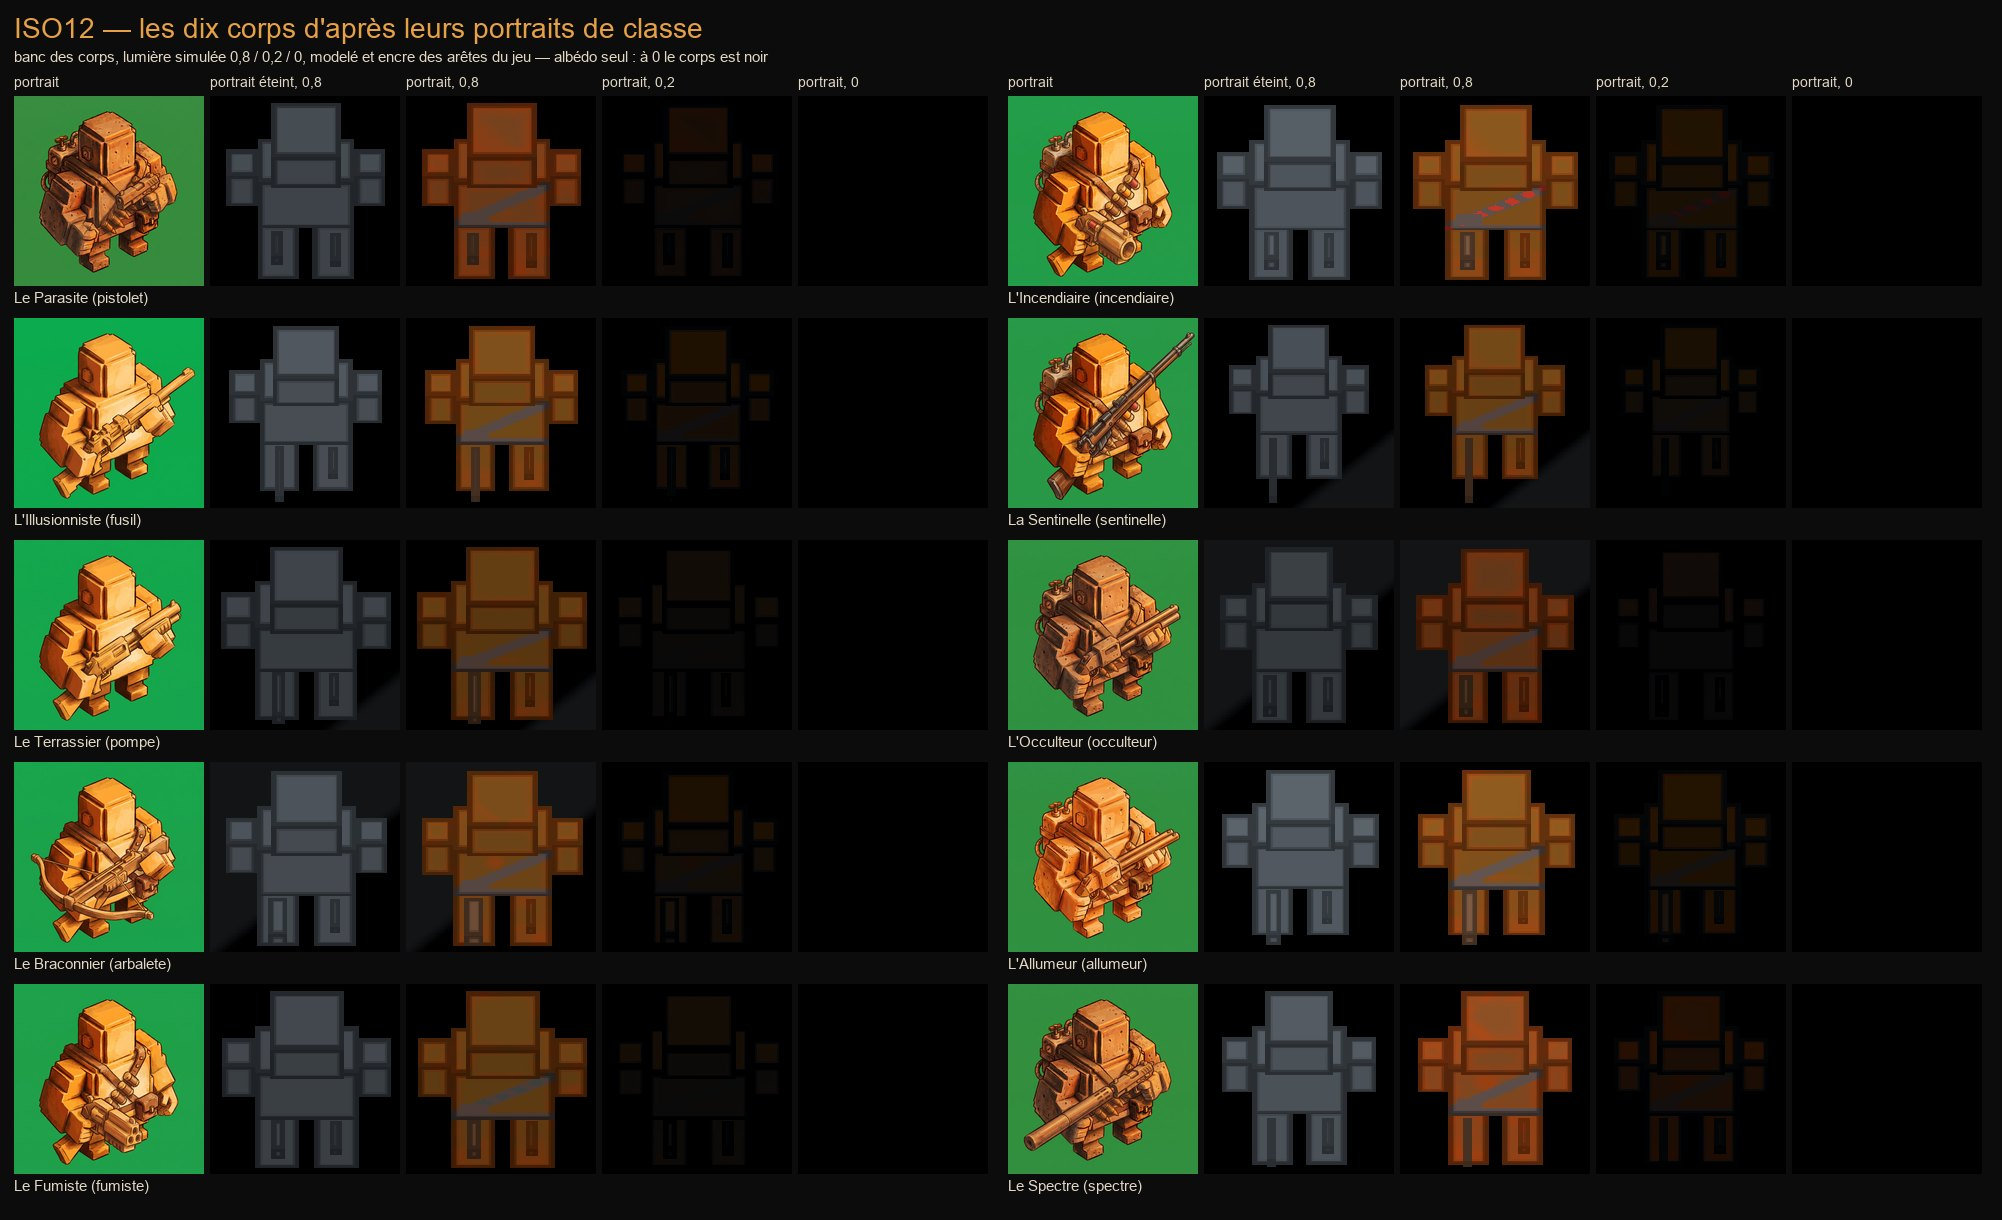
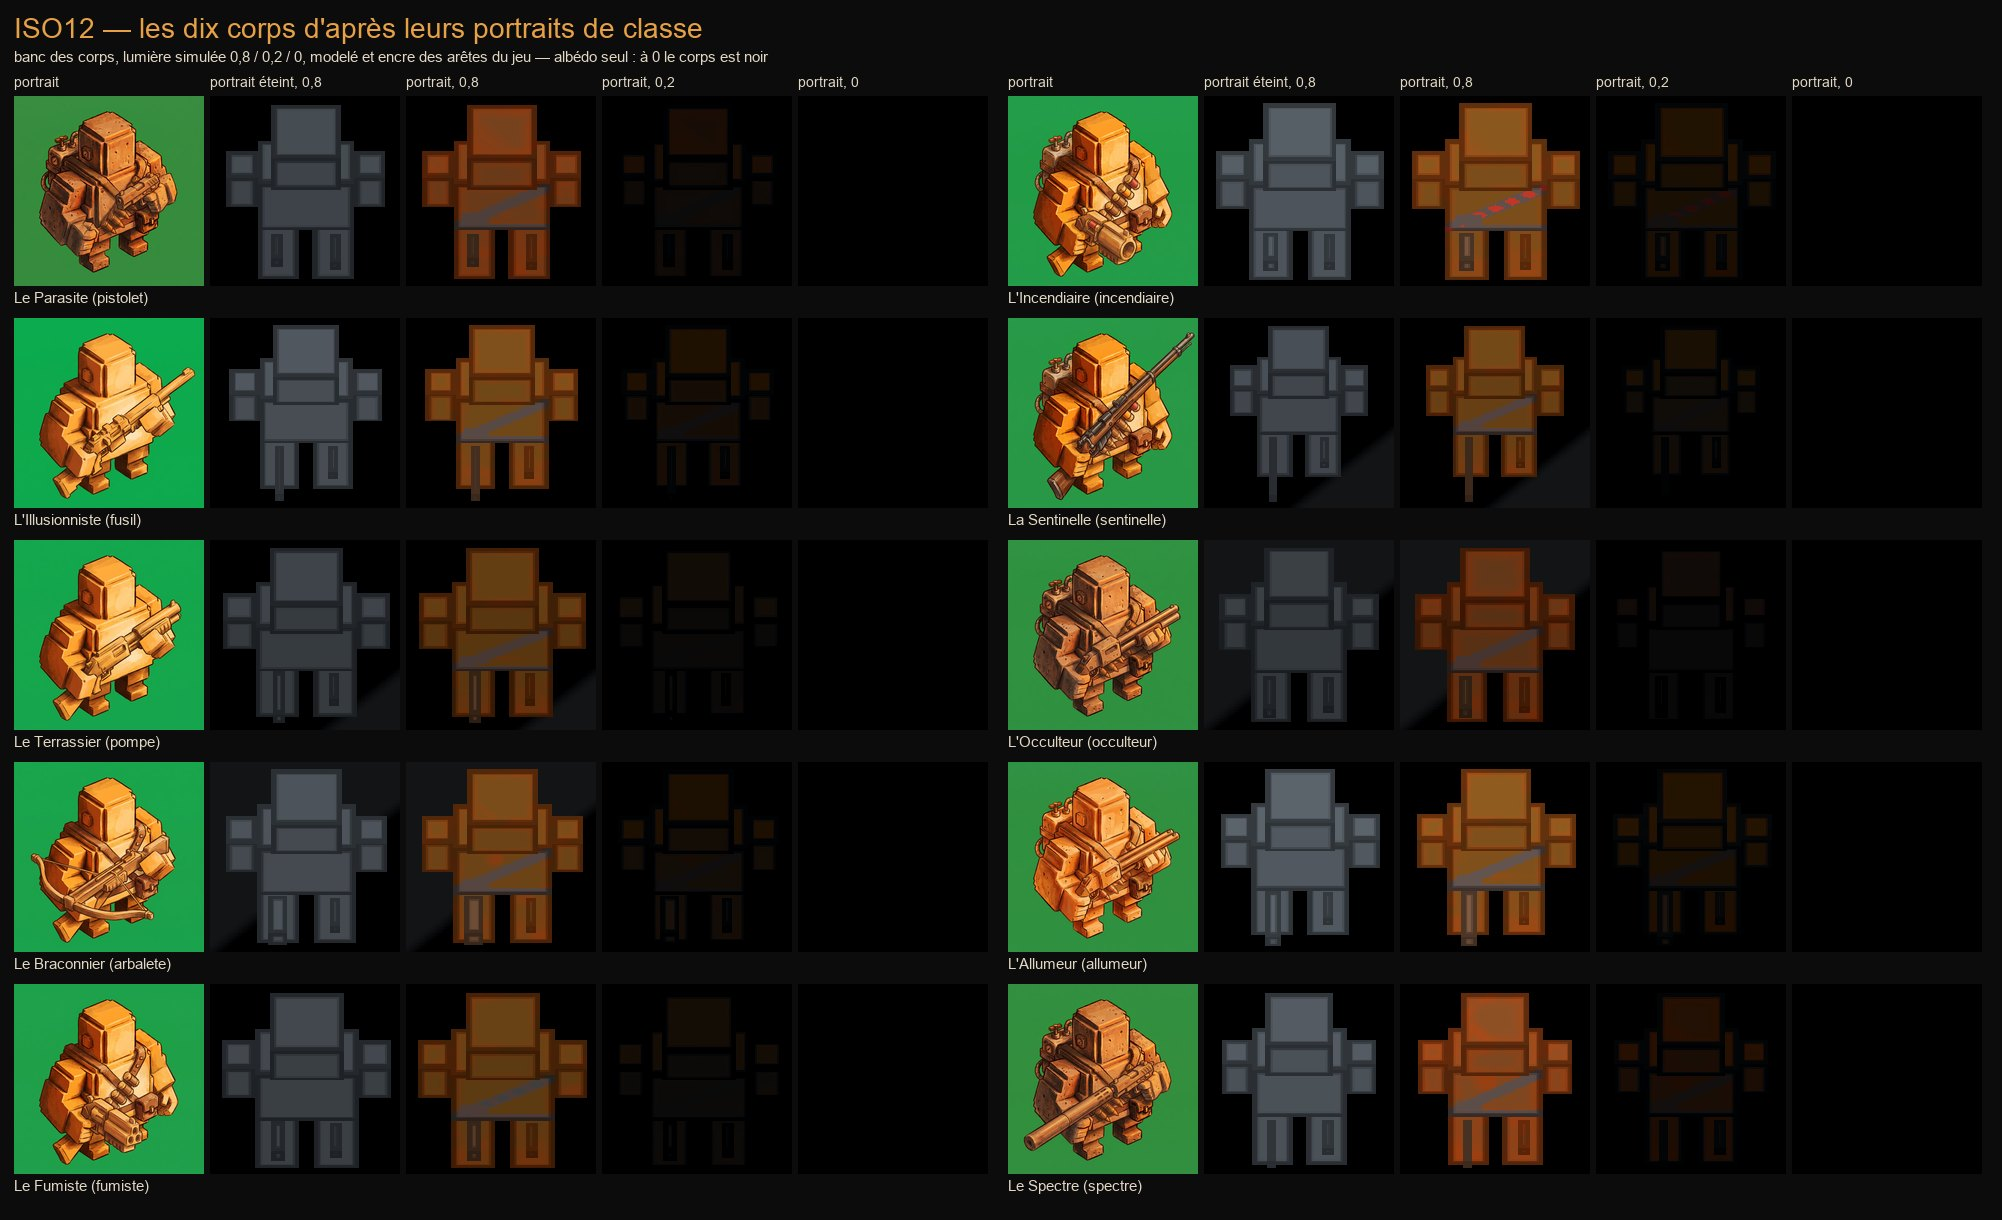
ISO12 — les corps peints : critère 1 tenu au temps figé, zéro pixel noir allumé
Banc au temps figé accordé par la session cloud (07:33), critère posé
d'avance : d'abord le contrôle gris contre gris à 0 dans les deux sens, puis
le peint à 0. Le banc des corps fige son horloge pendant les deux prises
(aucun shader des corps ne lit TIME) ; sans cela, les corps respiraient
d'une capture à l'autre et 40 000 pixels différaient même au contrôle.

Mesuré à 08:03, lumières 0,8, 0,2, 0,15, 0,1 et 0,06 : contrôle à palette
grise, 0 et 0 ; peint, 0 pixel noir au gris qui sort non noir et 0 dans
l'autre sens, peint sur gris 0,978 à 1,028. Les trois critères de l'ordre
145 sont tenus. Lot complet vert (435 s, 08:11).

Changed region(s): [[0.2478, 0.7475, 0.2787, 0.7787], [0.2478, 0.5607, 0.2787, 0.5918], [0.2478, 0.3426, 0.2787, 0.3738]]

diff --git a/docs/ROADMAP.md b/docs/ROADMAP.md
@@ -26192,12 +26192,13 @@ jusqu'à 24/255. L'encre et le modelé restent les seules variations de clarté,
 **L'équité.** Mesurée au banc des corps, les dix corps pris peints puis le portrait éteint sur les MÊMES matériaux, dans la
 même partie (2026-09-23 06:43, clarté moyenne des pixels du corps, peint sur gris) : **0,991 à 1,001 à 0,8 ; 0,978 à 1,005
 à 0,2 ; 0,990 à 1,024 à 0,15 ; 0,997 à 1,017 à 0,1** — les dix classes dans les 5 % à toutes les lumières.
-- **Critère 1 : des pixels noirs au gris qui ne le sont plus peints — tombés au niveau du bruit du banc.** 159 à 0,2, 207 à
-  0,15, 205 à 0,1, 10 à 0,06, 0 à 0 (125 à 0,8), contre 8 894, 15 249, 8 287 et 9 622 dans l'espace encodé ; et dans l'autre
-  sens, 186, 411, 163 : les deux sens s'équilibrent. **Le contrôle** — la palette entièrement grise, où la teinte rend
-  exactement le gris — en compte autant entre ses deux captures (105 à 0,2, 139 à 0,1, et 1 791 dans l'autre sens) : les
-  corps respirent d'une capture à l'autre (40 000 pixels y diffèrent). Le zéro exact demande un banc au temps figé entre
-  les deux prises (proposé).
+- **Critère 1 TENU : aucun pixel noir au gris n'est non noir peint, au banc au temps figé** (2026-09-23 08:03 : le temps du
+  banc des corps figé entre la prise peinte et la prise au portrait éteint — sans lui, les corps respiraient d'une capture à
+  l'autre et 40 000 pixels différaient même au contrôle). D'abord le CONTRÔLE, la palette entièrement grise : 0 dans les deux
+  sens à 0,8, 0,2, 0,15, 0,1 et 0,06 — le banc est bien figé. Puis le peint : **0 pixel noir au gris qui sort non noir, et 0
+  dans l'autre sens, aux cinq lumières**, peint sur gris 0,978 à 1,028. Sans temps figé (06:43), 159 à 0,2, 207 à 0,15,
+  205 à 0,1 : le niveau du contrôle (105, 139), équilibré dans les deux sens ; dans l'espace encodé (05:22), 8 894, 15 249,
+  8 287.
 - ⚠ **L'étape, désignée par interrupteurs** (même partie, à 0,2 puis 0,1, traits d'encre + pourtour) : normal 5 757 + 3 137
   puis 8 192 + 164 ; encre coupée 21 + 125 puis 4 649 + 542 ; modelé coupé 6 950 + 3 346 puis 5 040 + 199 ; ni encre ni
   modelé 0 + 71 puis 0 + 61 ; corps forcé opaque, comme normal ; palette grise, 1 + 104 puis 139 + 0. Le mélange au bord n'y
